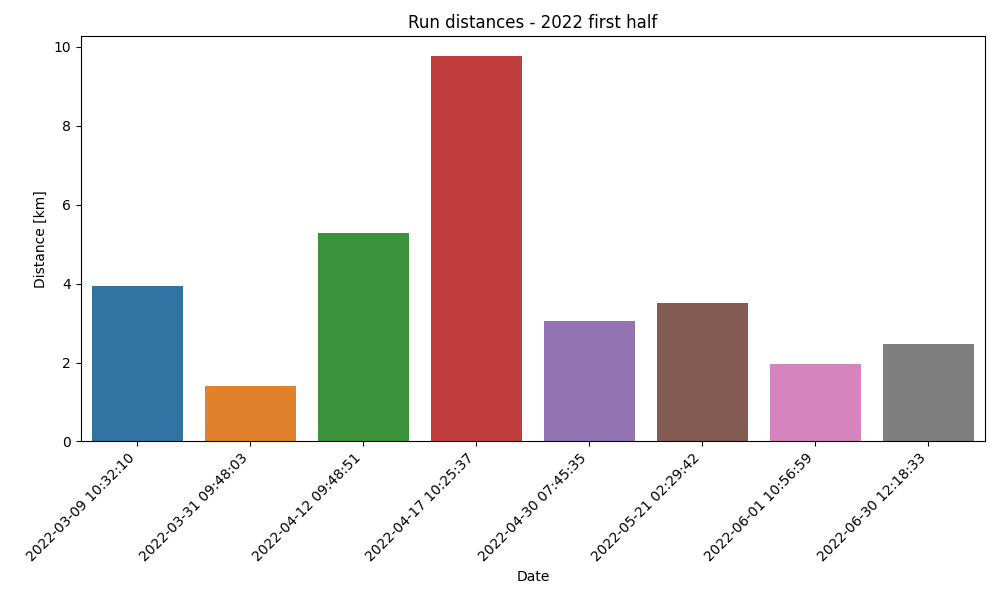
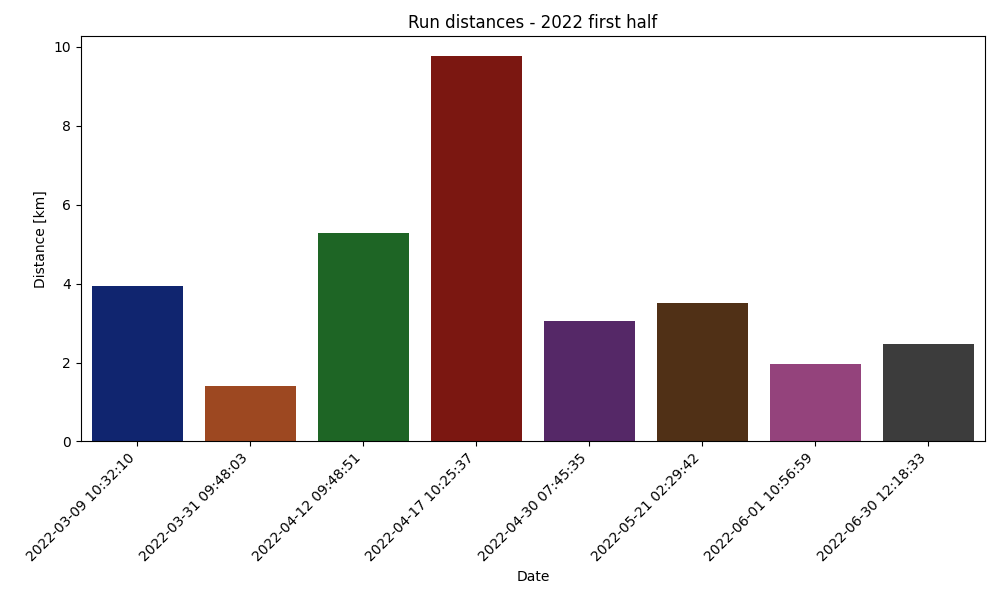
chore: swap color palettes

Changed region(s): [[0.093, 0.09, 0.992, 0.75]]

diff --git a/src/plot.py b/src/plot.py
@@ -141,7 +141,12 @@ def main():
     years = [2021, 2022, 2023]
     half_years = [1, 2]
 
-    for year in years:
+    color_palettes = ["pastel", "dark", "colorblind"]
+
+    for idx, year in enumerate(years):
+
+        sns.set_palette(sns.color_palette(color_palettes[idx]))
+
         for half_year in half_years:
             df_bulk = get_run_data("data/activities.csv", year, activity_type, half_year)
             df_manual = get_run_data("data/manual_activities.csv", year, activity_type, half_year)
